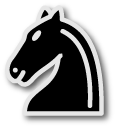
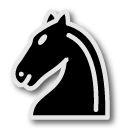
Issue #10 _Please read long commit message_
Since this commit doesn't have any code and all the changes are binary
files, I will describe my changes here. As stated in the README, I
modified these images manually opening each one of them in GIMP. This
took about 1-2 hours to do and to make sure I got it right. Just
wanted to let you know this wasn't a meaningless commit and work went
into it. Thank you.

diff --git a/assets/README.md b/assets/README.md
@@ -1,5 +1,13 @@
 # Chess assets
 
-These assets are created by John Pablok. They are licensed under CC-BY-SA 3.0.
+All images in this directory, with the exception of `blank.png`, are adapted from
+[John Pabolk's improved Cburnett chess set](https://opengameart.org/content/chess-pieces-and-board-squares).
+This work is Copyright (c) John Pabolk 2017.
+They are licensed under the [CC-BY-SA 3.0 license](https://creativecommons.org/licenses/by-sa/3.0/legalcode).
 
-The file `blank.png` is not included in this asset.
+These images have been modified. All of their resolutions have been changed to be exactly 128 by
+128, and translated to be in the center of the image.
+
+These modified images and `blank.png` are Copyright (c) Reed Semmel 2021. This work is licensed
+under the [Creative Commons BY-SA 3.0 License](https://creativecommons.org/licenses/by-sa/3.0/legalcode).
+To view a copy of the license, visit https://creativecommons.org/licenses/by-sa/3.0/legalcode
